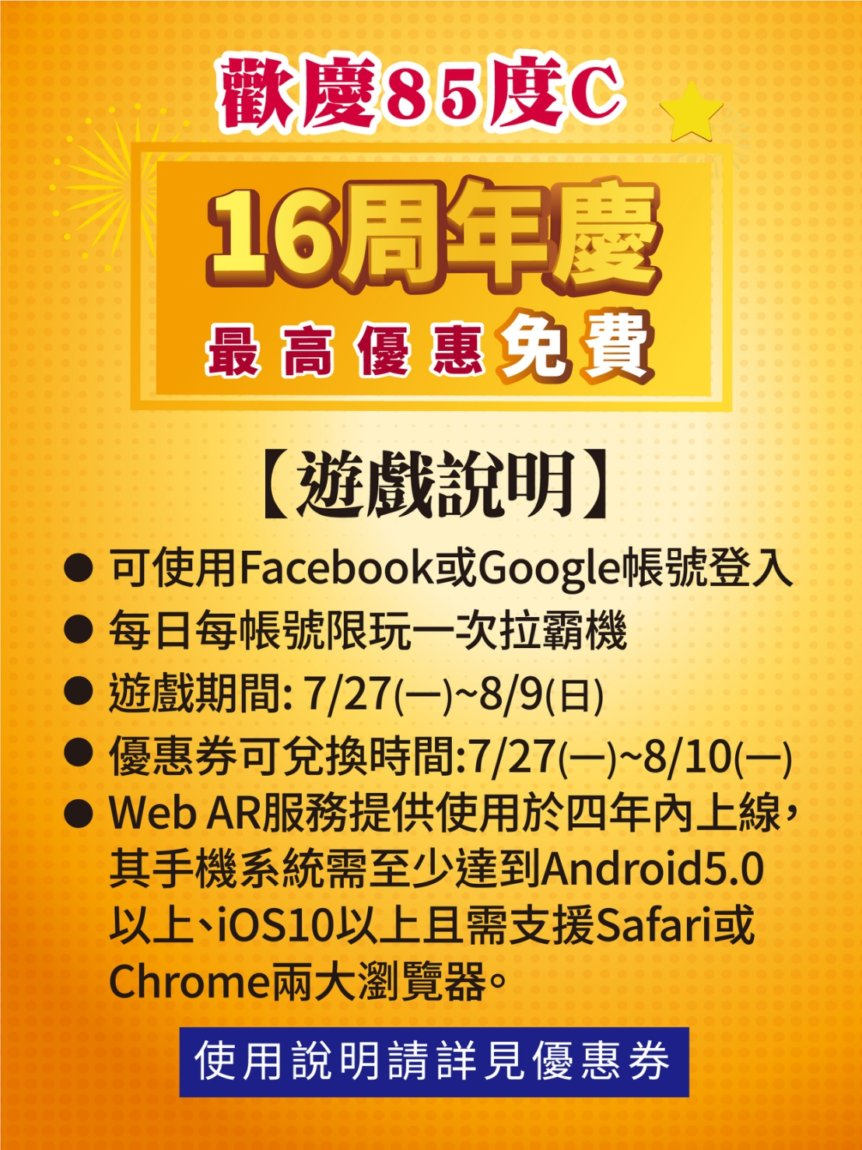
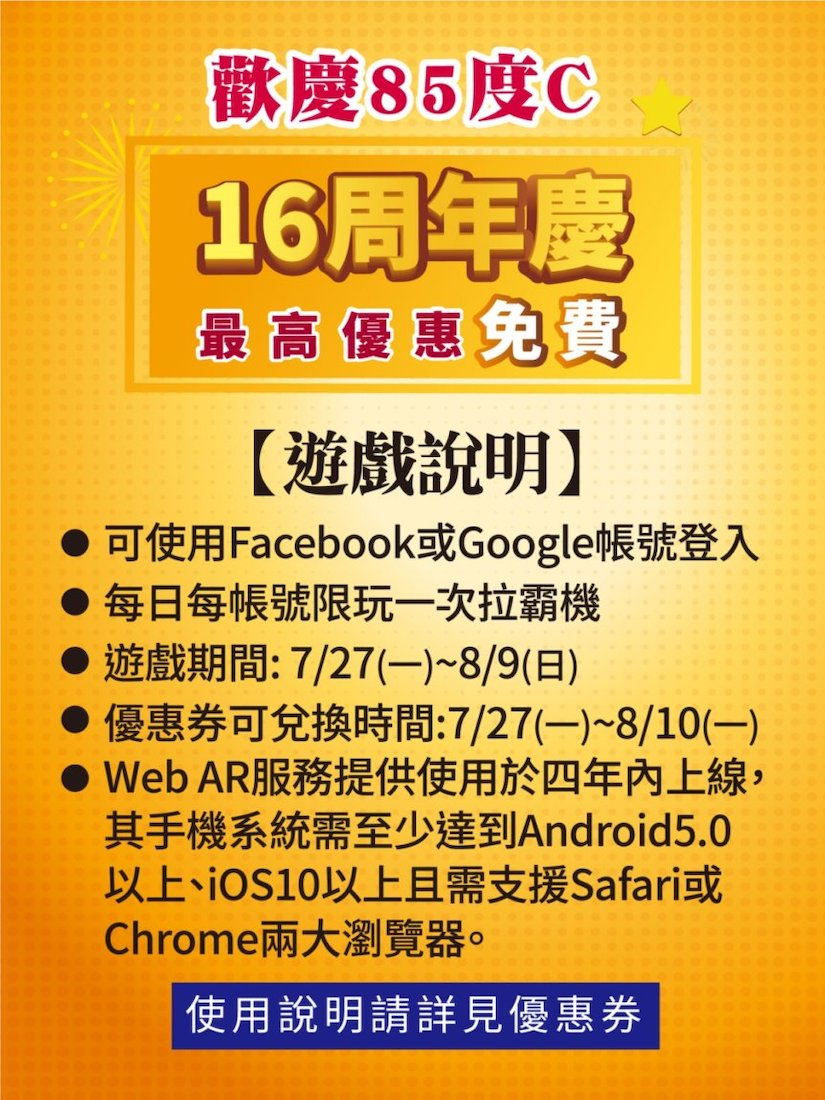
更新圖片大小、修正手機版回首頁以及登出按鈕左右位置

diff --git a/styles/style.css b/styles/style.css
@@ -127,14 +127,18 @@ input[type=number] {
   margin-right: 40vw;
 }
 
+#special-two-button {
+  width: auto;
+  height: 6vh;
+  margin-bottom: 6vh;
+}
+
 #special-two-button > a {
-  display: inline-block;
-  margin-right: 30vw;
+  float: left;
 }
 
 #special-two-button > span {
-  display: inline-block;
-  margin-left: 30vw;
+  float: right;
 }
 
 #logout {
